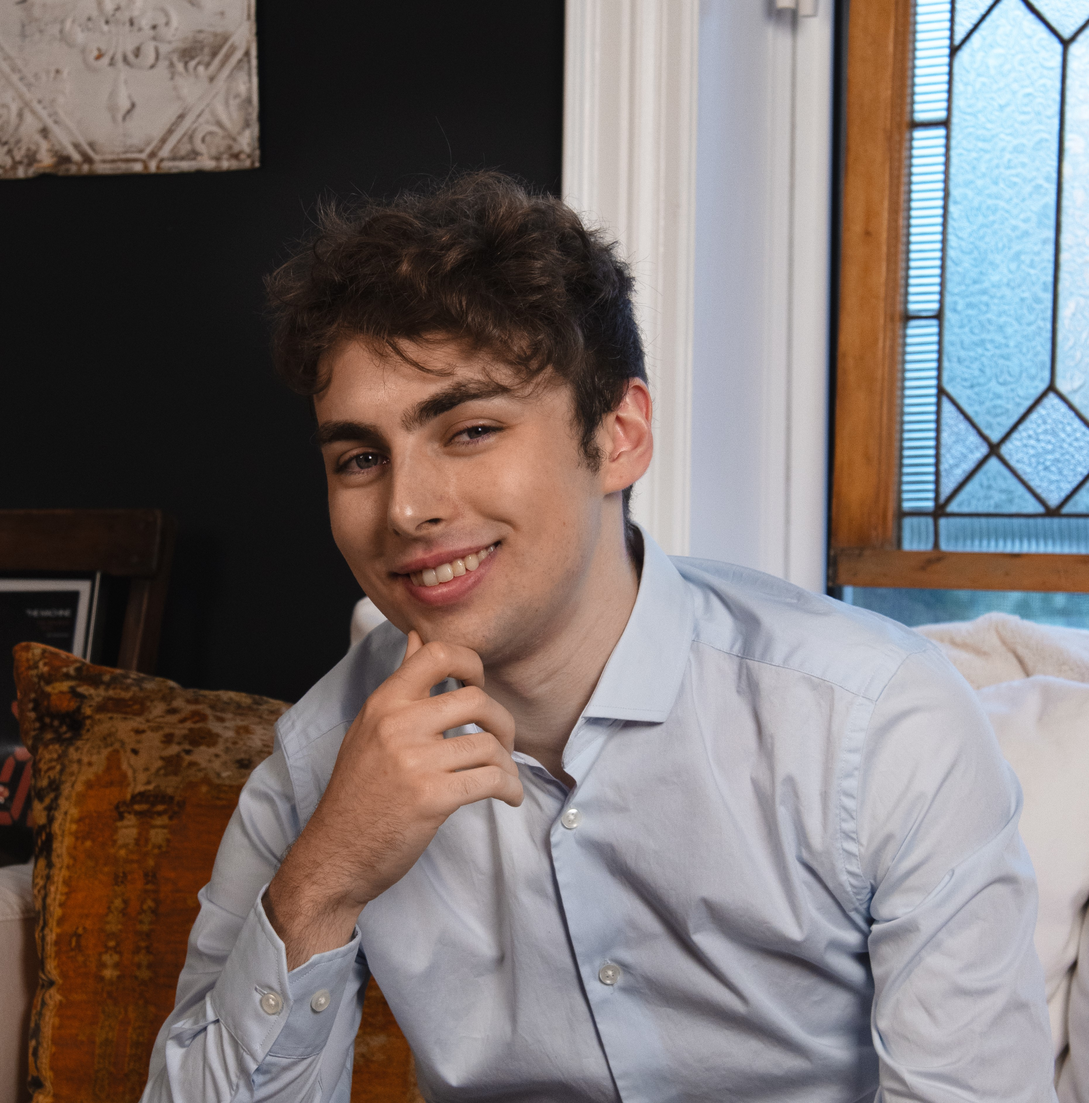
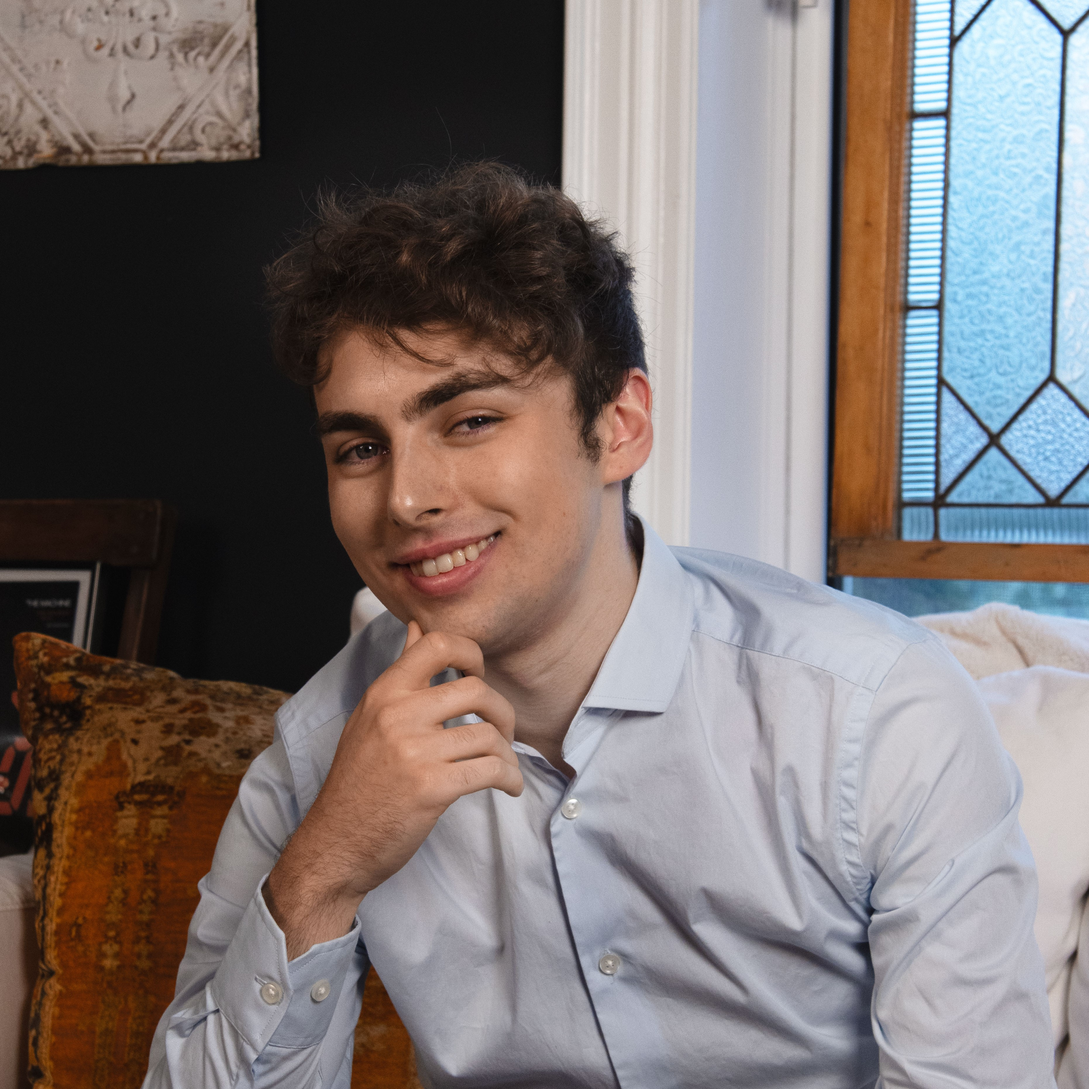
cleaned up about text, profilepic is now web optimized

diff --git a/html/index.html b/html/index.html
@@ -101,43 +101,6 @@
 							<article class="post">
 								<header>
 									<div class="title">
-										<h2><a href="./projects/website">connorlynch.ca</a></h2>
-										<p>The very website you are using right now!</p>
-										<a target="_blank" href="https://github.com/ConnorEALynch/website" class="icon brands fa-github"> github.com/ConnorEALynch/website</a>
-									</div>
-									<div class="meta">
-										<p> Last Updated: </p>
-										<time class="published" datetime="2015-10-18">October 25, 2023</time>
-									</div>
-								</header>
-								<a href="./projects/website" >
-								<pre class="HTML"><code>&lt;h2&gt;&lt;a href="./projects/website"&gt;connorlynch.ca&lt;/a&gt;&lt;/h2&gt;
-&lt;p&gt;The very website you are using right now!&lt;/p&gt;
-&lt;a target="_blank" href="https://github.com/ConnorEALynch/website" class="icon brands fa-github"&gt; github.com/ConnorEALynch/website&lt;/a&gt;
-&lt;/div&gt;
-&lt;div class="meta"&gt;
-&lt;p&gt; Last Updated: &lt;/p&gt;
-&lt;time class="published" datetime="2015-10-18"&gt;October 25, 2023&lt;/time&gt;
-&lt;/div&gt;
-&lt;/header&gt;
-&lt;pre&gt;&lt;code&gt;code goes here&lt;/pre&gt;&lt;/code&gt;
-&lt;a href="./projects/website" class="image featured"&gt;&lt;/a&gt;
-&lt;p&gt;This website is the first step in a multi-part project for developing web based applications. In its current state it is a static website built with a responsive template, future versions will be built on a framework with server-side capabilities to allow for dynamic content.&lt;/p&gt;
-&lt;p&gt;This project has a deeper purpose beyond boasting about my schooling and credentials. The container this...&lt;/p&gt;</code></pre>
-								</a>
-								<p>This website is the first step in a multi-part project for developing web based applications. In its current state it is a static website built with a responsive template, future versions will be built on a framework with server-side capabilities to allow for dynamic content.</p>
-								<p>This project has a deeper purpose beyond boasting about my schooling and credentials. The container this...</p>
-								<footer>
-									<ul class="actions">
-										<li><a href="./projects/website" class="button large">Continue Reading</a></li>
-									</ul>
-								</footer>
-							</article>
-
-						<!-- Post -->
-							<article class="post">
-								<header>
-									<div class="title">
 										<h2><a href="projects/homeserver">Home Server</a></h2>
 										<p>An overview of my multi-purpose home lab</p>
 									</div>
@@ -202,6 +165,42 @@ def call_tenants():
 									</ul>
 								</footer>
 							</article>
+							<!-- Post -->
+							<article class="post">
+								<header>
+									<div class="title">
+										<h2><a href="./projects/website">connorlynch.ca</a></h2>
+										<p>The very website you are using right now!</p>
+										<a target="_blank" href="https://github.com/ConnorEALynch/website" class="icon brands fa-github"> github.com/ConnorEALynch/website</a>
+									</div>
+									<div class="meta">
+										<p> Last Updated: </p>
+										<time class="published" datetime="2015-10-18">October 25, 2023</time>
+									</div>
+								</header>
+								<a href="./projects/website" >
+								<pre class="HTML"><code>&lt;h2&gt;&lt;a href="./projects/website"&gt;connorlynch.ca&lt;/a&gt;&lt;/h2&gt;
+&lt;p&gt;The very website you are using right now!&lt;/p&gt;
+&lt;a target="_blank" href="https://github.com/ConnorEALynch/website" class="icon brands fa-github"&gt; github.com/ConnorEALynch/website&lt;/a&gt;
+&lt;/div&gt;
+&lt;div class="meta"&gt;
+&lt;p&gt; Last Updated: &lt;/p&gt;
+&lt;time class="published" datetime="2015-10-18"&gt;October 25, 2023&lt;/time&gt;
+&lt;/div&gt;
+&lt;/header&gt;
+&lt;pre&gt;&lt;code&gt;code goes here&lt;/pre&gt;&lt;/code&gt;
+&lt;a href="./projects/website" class="image featured"&gt;&lt;/a&gt;
+&lt;p&gt;This website is the first step in a multi-part project for developing web based applications. In its current state it is a static website built with a responsive template, future versions will be built on a framework with server-side capabilities to allow for dynamic content.&lt;/p&gt;
+&lt;p&gt;This project has a deeper purpose beyond boasting about my schooling and credentials. The container this...&lt;/p&gt;</code></pre>
+								</a>
+								<p>This website is the first step in a multi-part project for developing web based applications. In its current state it is a static website built with a responsive template, future versions will be built on a framework with server-side capabilities to allow for dynamic content.</p>
+								<p>This project has a deeper purpose beyond boasting about my schooling and credentials. The container this...</p>
+								<footer>
+									<ul class="actions">
+										<li><a href="./projects/website" class="button large">Continue Reading</a></li>
+									</ul>
+								</footer>
+							</article>
 							
 						<!-- Footer -->
 							<section id="footer">
@@ -226,10 +225,10 @@ def call_tenants():
 
 						<!-- About -->
 							<section class="blurb">
-								<h2>About</h2>
-								<p>Ever since I first logged on to my family's Dell dimension in the mid 2000s, I was fascinated by the possibilities of computers and the internet. Now in the present, I have graduated with a degree in software engineering where I tinker with tech both in my career and personal life.</p>
-								<p>My interest in all things software has not waned, over the last couple months I have been investing my time improving my proficiency of CI/CD pipelines and documentation. Most recently I have been working on projects such as this website.</p>
-								<p>When I’m not online, I usually spend my time grabbing food with friends and sitting at the table for a board game or match of Modern Magic: the Gathering.</p></p>
+								<h2>About</h2>						
+								<p>From the first moment I logged into my family’s Dell Dimension in the mid 2000s, I have been fascinated by the possibilities of computers and the Internet. Today I have a degree in software engineering and I continue to tinker with tech in my personal life.</p>
+								<p>My interest in computers and all things software has only grown over the years and I am currently spending my time becoming more proficient with CD/CI Pipelines and documentation.  </p>
+								<p>When I’m not online, you can usually find me exploring the Toronto food scene, or sitting across the table with good friends playing a board game or a match of Modern Magic: the Gathering. </p>
 							</section>
 							<section class="blurb">
 								<h2>Development Experience</h2>
